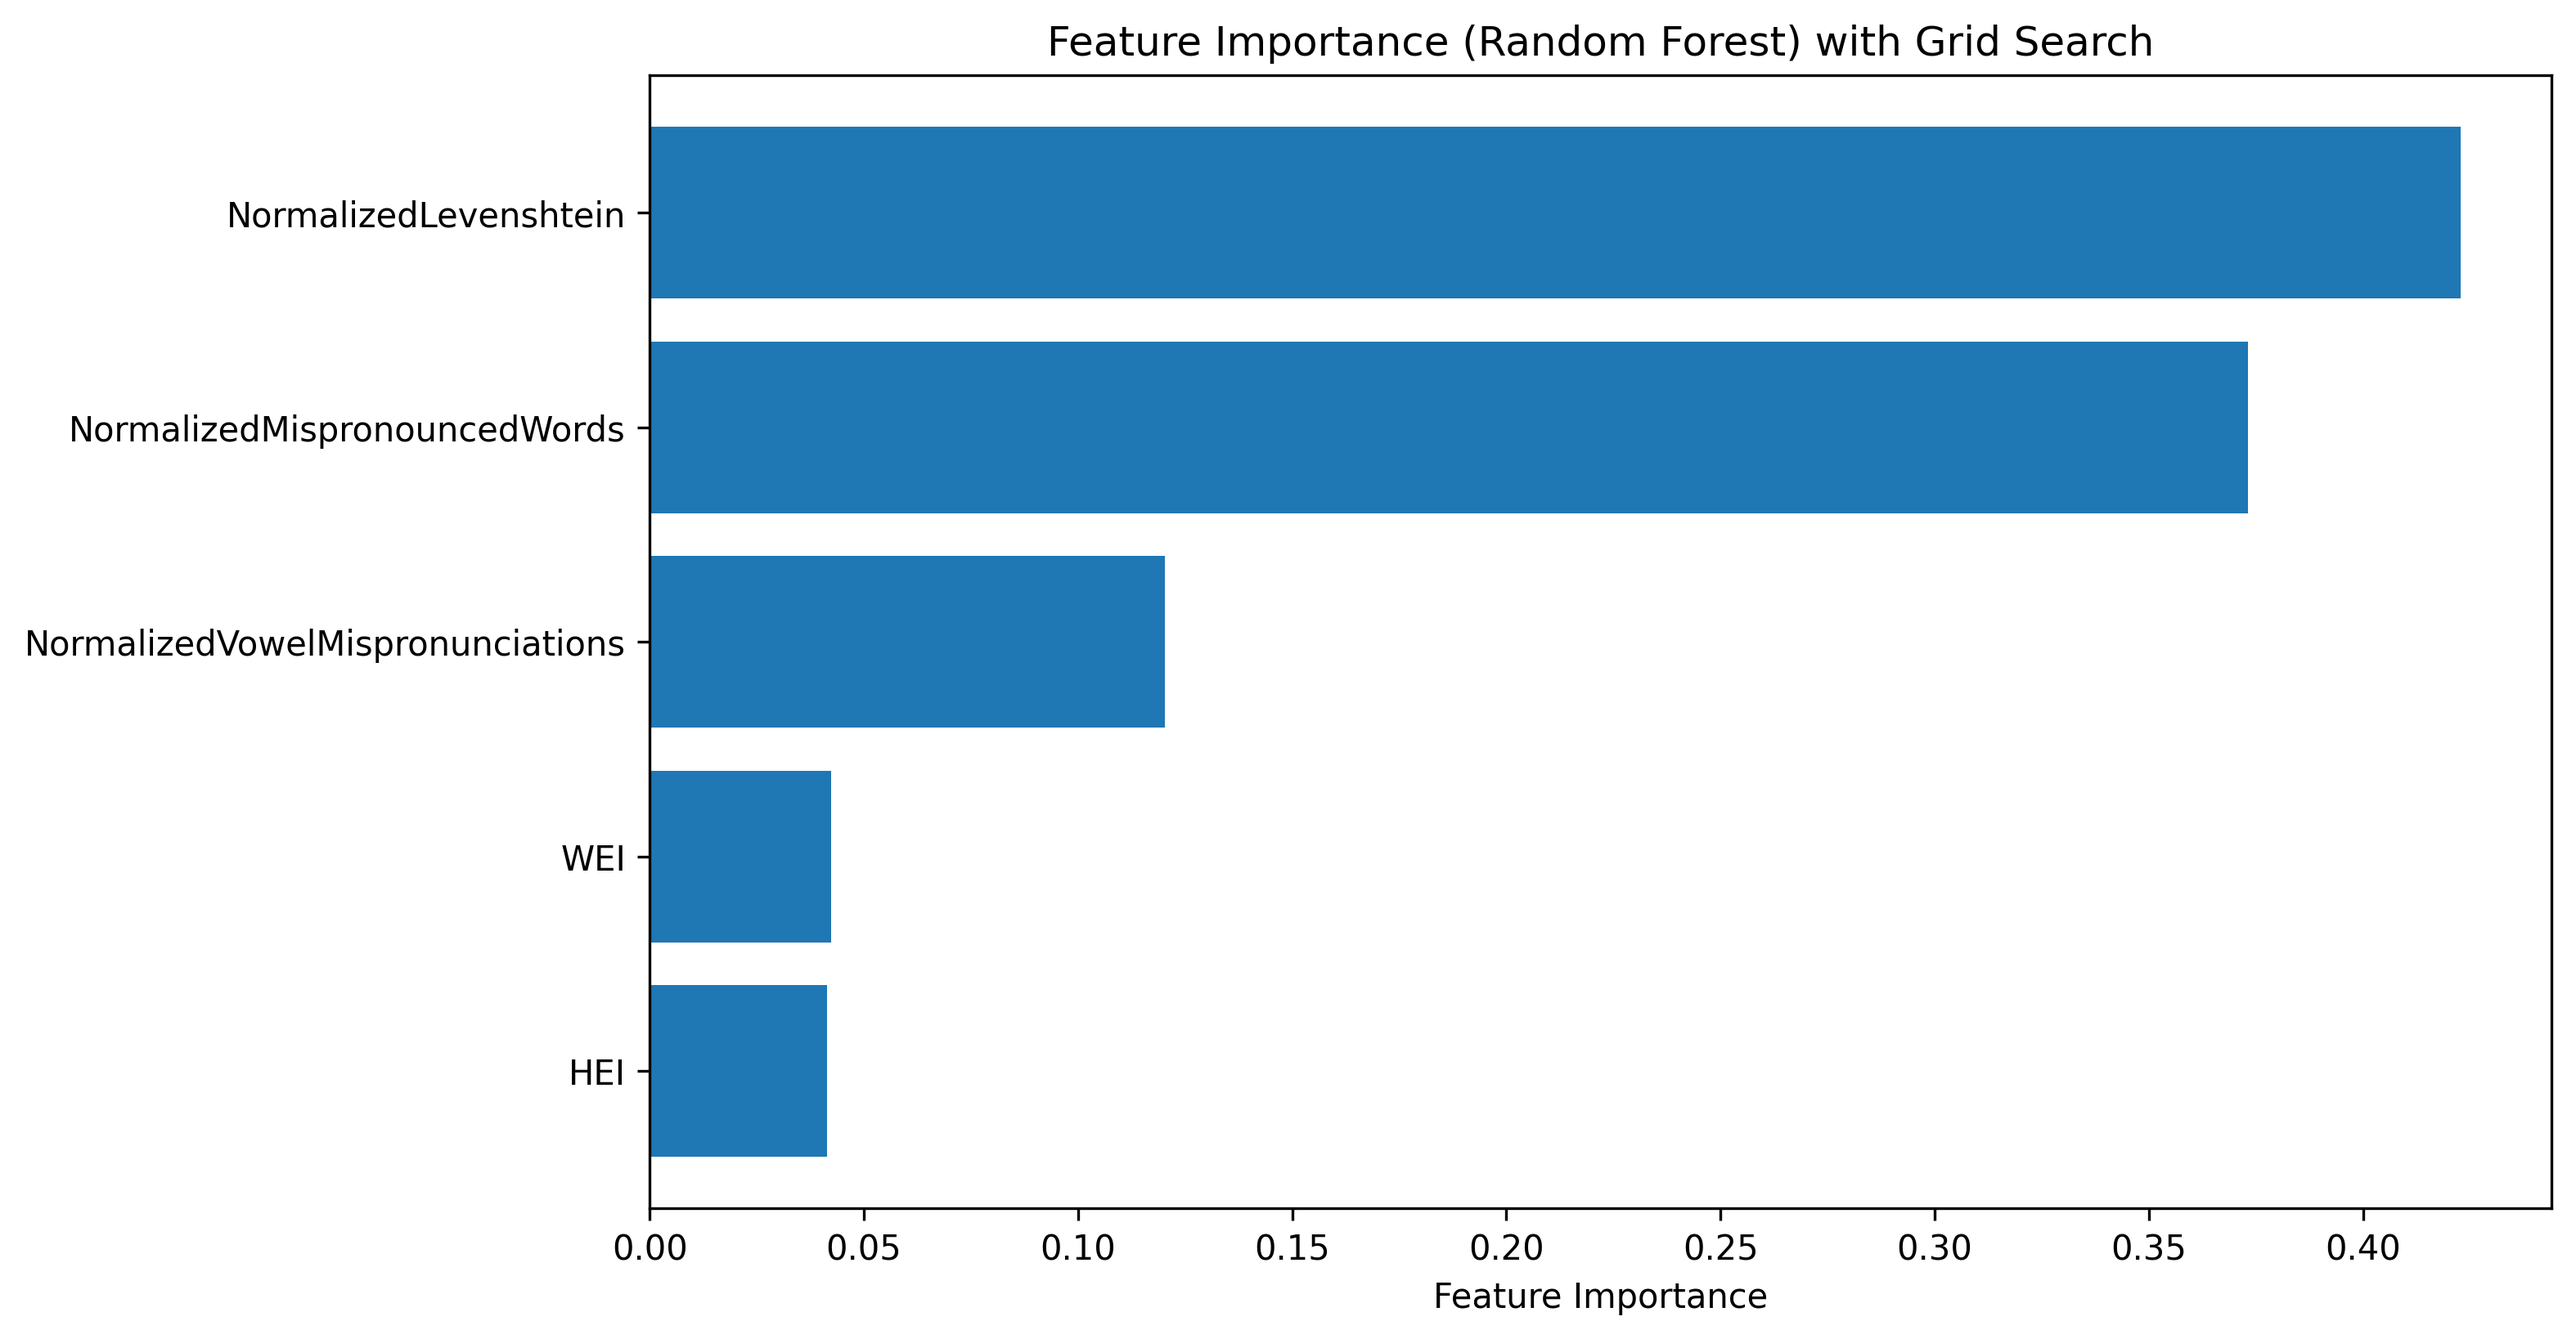
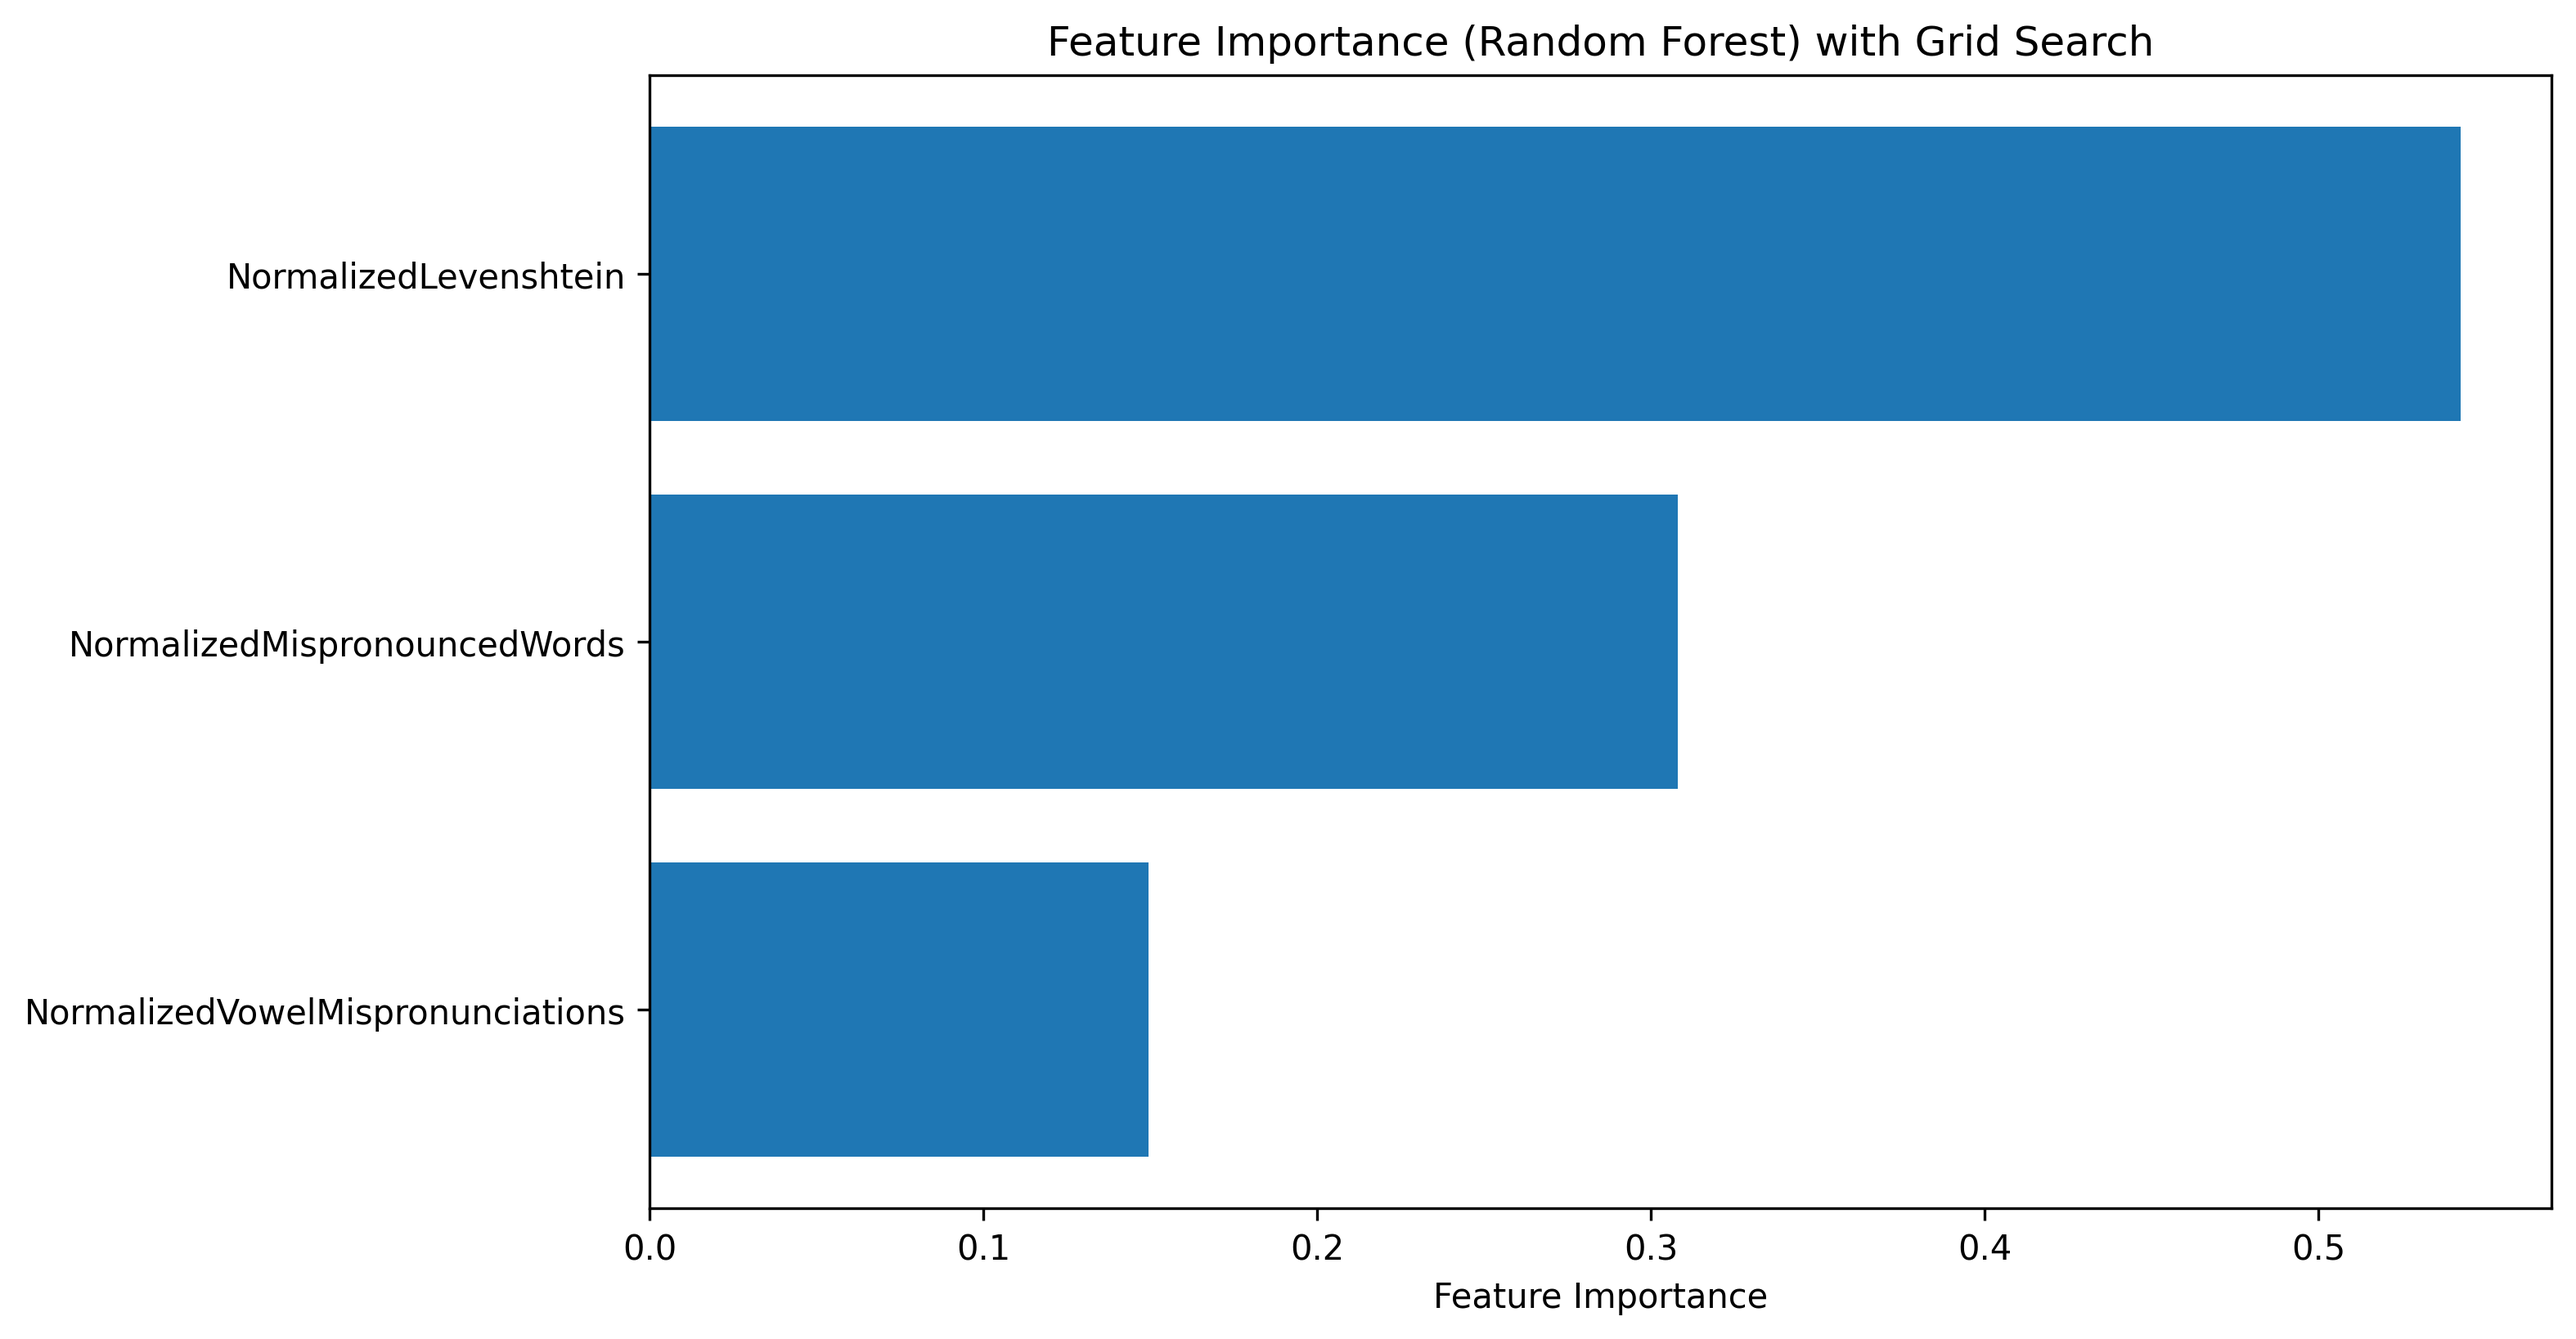
mfa dictionary generation by using G2P

diff --git a/randomforest_phoneme/rf_five_features.py b/randomforest_phoneme/rf_five_features.py
@@ -7,7 +7,7 @@ from sklearn.ensemble import RandomForestClassifier
 from sklearn.metrics import accuracy_score, classification_report, f1_score, recall_score, confusion_matrix
 
 # 파일 경로 설정
-DATA_PATH = "/data/alc_jihan/extracted_features_mfa/final_mfa_features.csv"
+DATA_PATH = "/data/alc_jihan/extracted_features_mfa/final_mfa_features2.csv"
 OUTPUT_IMAGE_PATH = "/home/ai/said/randomforest_phoneme/checkpoint/5features_random_forest_feature_importance.png"
 OUTPUT_CONF_MATRIX_PATH = "/home/ai/said/randomforest_phoneme/checkpoint/5features_confusion_matrix.png"
 
@@ -36,11 +36,11 @@ print(f"Train Data: {X_train.shape}, Val Data: {X_val.shape}, Test Data: {X_test
 
 # Random Forest 모델 파라미터 지정
 params = {
-    'n_estimators': 700,
+    'n_estimators': 500,
     'max_depth': 7,
     'min_samples_split': 20,
-    'min_samples_leaf': 8,
-    'max_features': None,
+    'min_samples_leaf': 4,
+    'max_features': 'sqrt',
     'class_weight': 'balanced_subsample',
     'bootstrap': True,
     'n_jobs': -1,

diff --git a/randomforest_phoneme/rf_grid_search.py b/randomforest_phoneme/rf_grid_search.py
@@ -8,7 +8,7 @@ from sklearn.metrics import accuracy_score, classification_report, f1_score, rec
 from sklearn.model_selection import GridSearchCV
 
 # 파일 경로 설정
-DATA_PATH = "/data/alc_jihan/extracted_features_mfa/final_mfa_features.csv"
+DATA_PATH = "/data/alc_jihan/extracted_features_mfa/final_mfa_features2.csv"
 OUTPUT_IMAGE_PATH = "/home/ai/said/randomforest_phoneme/checkpoint/grid_search_random_forest_feature_importance.png"
 OUTPUT_CONF_MATRIX_PATH = "/home/ai/said/randomforest_phoneme/checkpoint/grid_search_confusion_matrix.png"
 
@@ -18,7 +18,7 @@ df['Class'] = df['Class'].map({'Sober': 0, 'Intoxicated': 1})
 
 # 사용할 5개 feature 선택
 selected_features = ['NormalizedLevenshtein', 'NormalizedMispronouncedWords',
-                     'NormalizedVowelMispronunciations', 'WEI', 'HEI']
+                     'NormalizedVowelMispronunciations']
 X = df[selected_features]
 y = df['Class']
 

diff --git a/randomforest_phoneme/rf_top_n.py b/randomforest_phoneme/rf_top_n.py
@@ -7,7 +7,7 @@ from sklearn.ensemble import RandomForestClassifier
 from sklearn.metrics import accuracy_score, classification_report, f1_score, recall_score, confusion_matrix
 
 # 파일 경로 설정
-DATA_PATH = "/data/alc_jihan/extracted_features_mfa/final_mfa_features.csv"
+DATA_PATH = "/data/alc_jihan/extracted_features_mfa/final_mfa_features2.csv"
 OUTPUT_IMAGE_PATH = "/home/ai/said/randomforest_phoneme/checkpoint/top_n_random_forest_feature_importance.png"
 OUTPUT_CONF_MATRIX_PATH = "/home/ai/said/randomforest_phoneme/checkpoint/top_n_confusion_matrix.png"
 

diff --git a/pheoneme_feature_mfa/extracted_slurred_spech_features.py b/pheoneme_feature_mfa/extracted_slurred_spech_features.py
@@ -212,7 +212,7 @@ def extract_features_from_file(file_path):
 
 def main():
     input_dir = "/data/alc_jihan/phoneme_features_mfa/final_output"
-    output_csv = "/data/alc_jihan/extracted_features_mfa/mfa_features.csv"
+    output_csv = "/data/alc_jihan/extracted_features_mfa/mfa_features2.csv"
 
     files = glob.glob(os.path.join(input_dir, "*.TextGrid"))
     header = ["FileName", "LevenshteinDistance", "NormalizedLevenshtein", 
@@ -234,3 +234,4 @@ def main():
 
 if __name__ == "__main__":
     main()
+

diff --git a/pheoneme_feature_mfa/merge_meta.py b/pheoneme_feature_mfa/merge_meta.py
@@ -1,8 +1,8 @@
 import pandas as pd
 
-mfa_features_path = "/data/alc_jihan/extracted_features_mfa/mfa_features.csv"
+mfa_features_path = "/data/alc_jihan/extracted_features_mfa/mfa_features2.csv"
 metadata_path = "/data/alc_jihan/extracted_features_whisper_disfluency/merged_data_disflency_meta_data.csv"
-output_path = "/data/alc_jihan/extracted_features_mfa/final_mfa_features.csv"
+output_path = "/data/alc_jihan/extracted_features_mfa/final_mfa_features2.csv"
 
 features_df = pd.read_csv(mfa_features_path)
 
